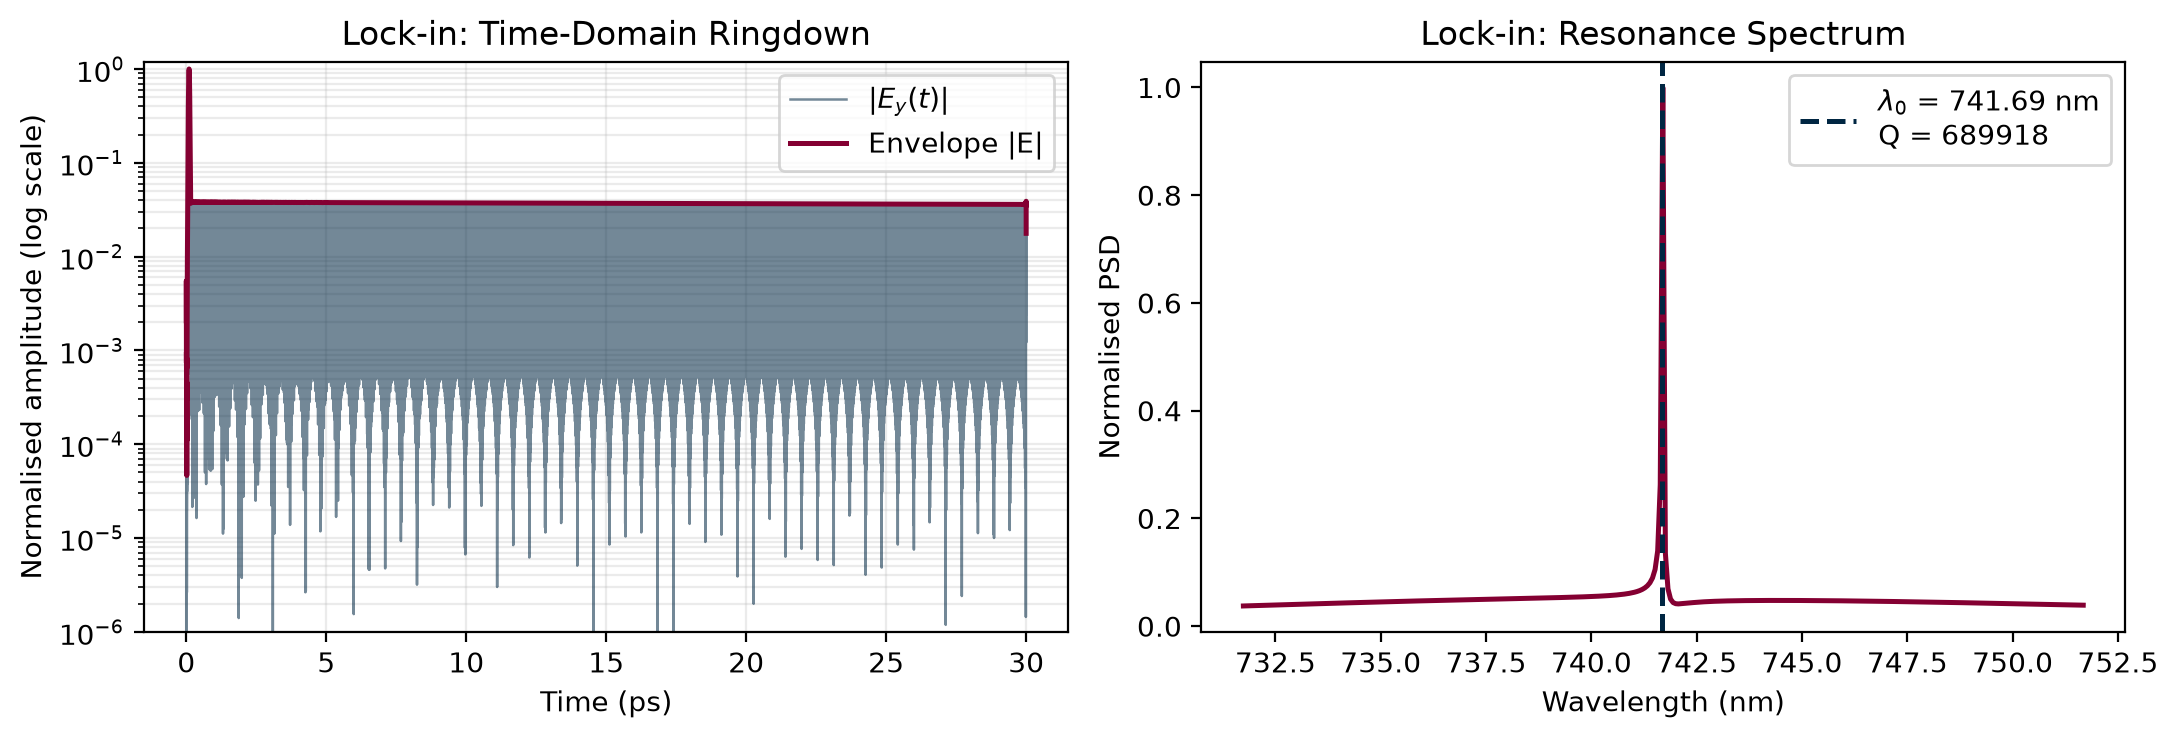
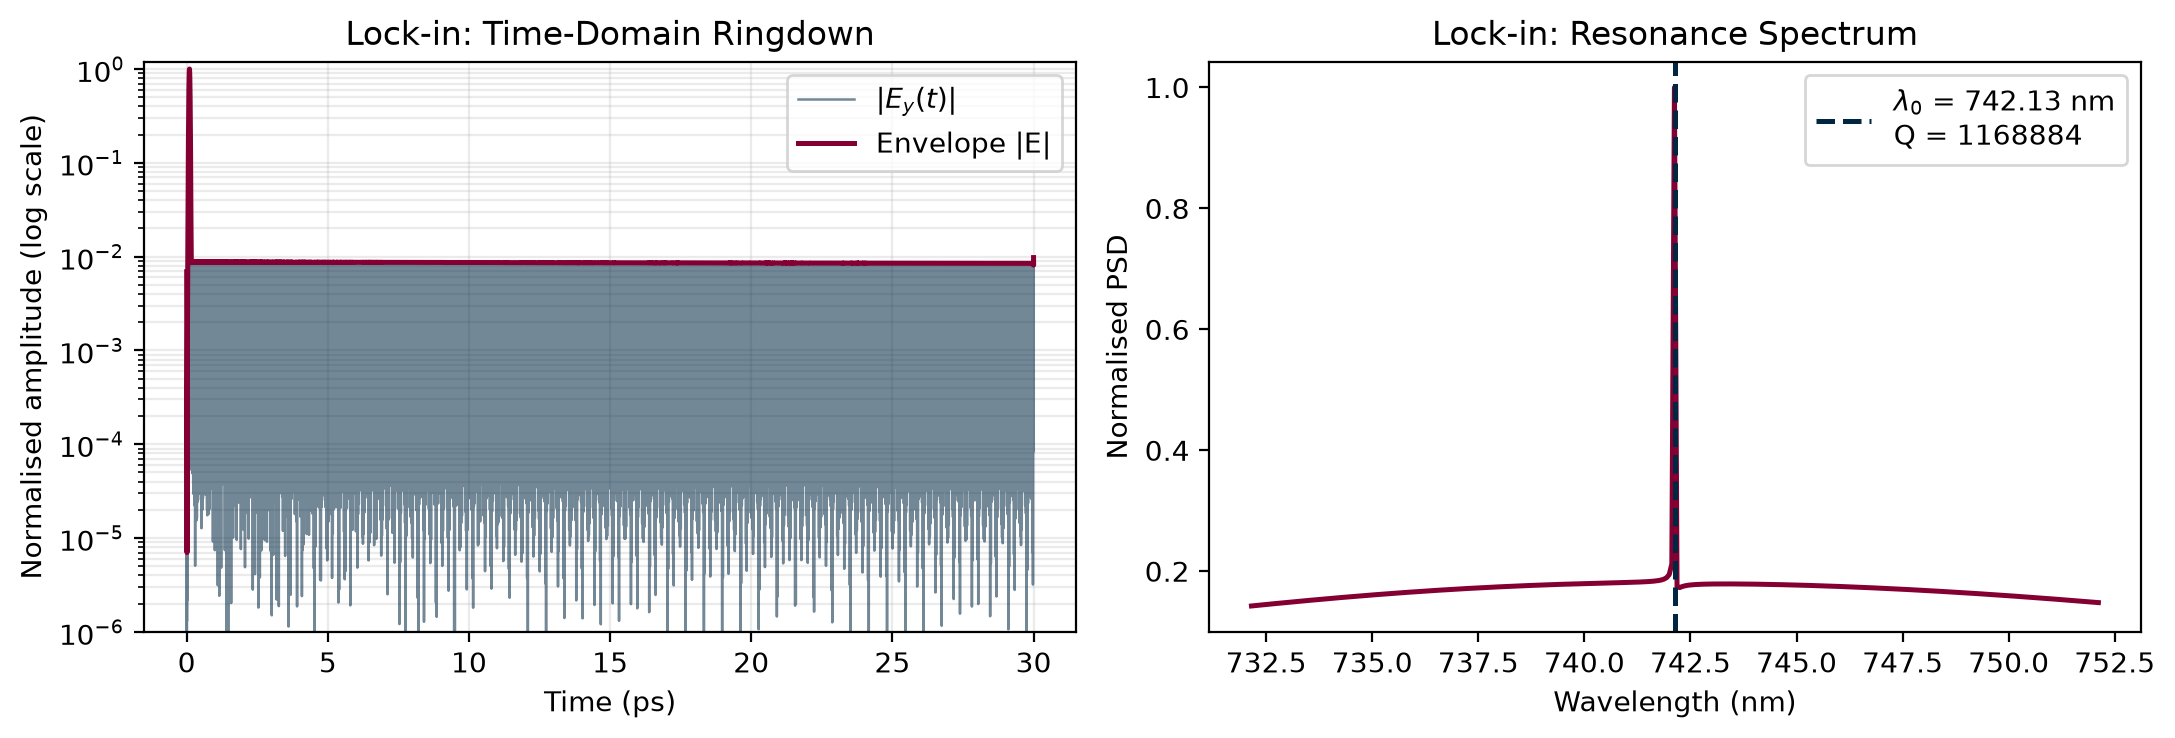
update the mesh override with finer mesh at the cavity center, for the mode volume calculation sampled from simulation itself

diff --git a/siv_cavity/postprocess.py b/siv_cavity/postprocess.py
@@ -258,9 +258,12 @@ def compute_confinement(
         results[f"w_{axis_label}_um"] = w
         results[f"fwhm_{axis_label}_nm"] = 2 * np.sqrt(2 * np.log(2)) * w * 1e3
 
-    dx = abs(np.diff(x[:2])[0])
-    dy = abs(np.diff(y[:2])[0])
-    A_eff = float(np.sum(I) ** 2 / np.sum(I**2) * dx * dy)
+    # Coordinate-aware integration: the monitor grid is non-uniform when a
+    # mesh override refines the cavity core, so integrate on the actual axes.
+    def _trapz2d(F: np.ndarray) -> float:
+        return float(np.trapezoid(np.trapezoid(F, x, axis=1), y, axis=0))
+
+    A_eff = _trapz2d(I) ** 2 / _trapz2d(I**2)
     results["A_eff_um2"] = A_eff
     results["A_eff_lambda2"] = A_eff / wavelength_um**2
     return results
@@ -275,44 +278,41 @@ def compute_mode_volume(
     wavelength_um: float = 0.737,
     thickness_um: float = 0.220,
 ) -> Tuple[float, float]:
-    """Compute the effective mode volume V_eff and its normalisation (lambda/2n)^3.
+    """Compute the effective mode volume V_eff and its normalisation (lambda/n)^3.
 
     V_eff = integral(eps |E|^2 dV) / max(eps |E|^2), with the permittivity
-    estimated analytically: n_diamond^2 inside the slab (|z| < thickness/2)
-    and 1 elsewhere (holes and the triangular sidewalls are not resolved,
-    matching the notebook's approximation).
+    sampled from the simulation itself (``Simulation.epsilon`` interpolated
+    onto the monitor grid) so that holes, the triangular sidewalls and the
+    air cladding are resolved exactly — mirrors the mode-volume recipe of
+    ``examples/NanobeamCavity.ipynb``.
 
-    Returns (V_eff [um^3], V_eff / (lambda/2n)^3).
+    ``thickness_um`` is kept for signature compatibility and no longer used.
+
+    Returns (V_eff [um^3], V_eff / (lambda/n)^3).
     """
     mon = data[monitor_name]
-    Ex = mon.Ex.isel(f=0).values.squeeze()
-    Ey = mon.Ey.isel(f=0).values.squeeze()
-    Ez = (
-        mon.Ez.isel(f=0).values.squeeze()
-        if "Ez" in mon.field_components
-        else np.zeros_like(Ex)
+    Ex = mon.Ex.isel(f=0)
+    Ey = mon.Ey.isel(f=0)
+    Ez = mon.Ez.isel(f=0) if "Ez" in mon.field_components else 0.0
+    intensity = np.abs(Ex) ** 2 + np.abs(Ey) ** 2 + np.abs(Ez) ** 2
+
+    # Exact permittivity of the simulated structure on the monitor grid.
+    freq = float(mon.Ex.coords["f"].values[0])
+    eps = np.abs(
+        data.simulation.epsilon(
+            box=td.Box(center=(0, 0, 0), size=(td.inf, td.inf, td.inf)), freq=freq
+        )
+    )
+    eps = eps.interp(
+        x=intensity.coords["x"], y=intensity.coords["y"], z=intensity.coords["z"]
     )
 
-    x = _coords_to_um(mon.Ex.coords["x"].values)
-    y = _coords_to_um(mon.Ex.coords["y"].values)
-    z = _coords_to_um(mon.Ex.coords["z"].values)
+    # Trapezoidal integration handles the non-uniform auto grid correctly.
+    eps_I = eps * intensity
+    V_eff = float(eps_I.integrate(coord=("x", "y", "z")) / eps_I.max())
 
-    # Ensure field shape (nz, ny, nx)
-    I = np.abs(Ex) ** 2 + np.abs(Ey) ** 2 + np.abs(Ez) ** 2
-    if I.shape == (len(x), len(y), len(z)):
-        I = np.transpose(I, (2, 1, 0))
-
-    # Analytic permittivity map
     n = float(n_diamond(wavelength_um))
-    Z3d = z[:, None, None] * np.ones_like(I)
-    eps = np.where(np.abs(Z3d) < thickness_um / 2, n**2, 1.0)
-
-    eps_I = eps * I
-    dV = abs(np.diff(x[:2])[0]) * abs(np.diff(y[:2])[0]) * abs(np.diff(z[:2])[0])
-    V_eff = float(np.sum(eps_I) * dV / np.max(eps_I))
-
-    lambda_n = wavelength_um / n
-    V_norm = V_eff / (lambda_n / 2) ** 3
+    V_norm = V_eff / (wavelength_um / n) ** 3
     return V_eff, V_norm
 
 
@@ -395,7 +395,7 @@ def run_full_analysis(
     Q_val = res_lockin["Q"]
     F_P = compute_purcell(Q_val, V_eff, wavelength_um)
     print(f"  Effective mode volume  V_eff  = {V_eff:.4f} um^3")
-    print(f"                                = {V_norm:.3f} x (lambda/2n)^3")
+    print(f"                                = {V_norm:.3f} x (lambda/n)^3")
     print(f"  Quality factor         Q      = {Q_val:.0f}")
     print(f"  Purcell factor         F_P    = {F_P:.1f}")
 

diff --git a/siv_cavity/simulation.py b/siv_cavity/simulation.py
@@ -34,6 +34,8 @@ class SiVNanobeamSimulationSetup:
         pad_z_um: float = 1.2,
         hole_layer: Tuple[int, int] = (0, 0),
         chunk_max: int = 100,
+        core_mesh_dl_um: float | None = None,
+        core_mesh_size_x_um: float = 4.0,
         *,
         diamond_medium: td.Medium,
         clad_medium: td.Medium,
@@ -59,6 +61,8 @@ class SiVNanobeamSimulationSetup:
         self.pad_z_um = float(pad_z_um)
         self.hole_layer = tuple(hole_layer)
         self.chunk_max = int(chunk_max)
+        self.core_mesh_dl_um = None if core_mesh_dl_um is None else float(core_mesh_dl_um)
+        self.core_mesh_size_x_um = float(core_mesh_size_x_um)
         self.diamond_medium = diamond_medium
         self.clad_medium = clad_medium
         self.f0_center = c0_m_per_s / (self.wavelength_um * 1e-6)
@@ -381,9 +385,32 @@ class SiVNanobeamSimulationSetup:
         )
         return [cartesian, kspace, angles]
 
-    def _grid_spec(self, min_steps_per_wvl: int) -> td.GridSpec:
+    def _grid_spec(self, min_steps_per_wvl: int, geom: Dict | None = None) -> td.GridSpec:
+        """Auto grid, optionally refined to ``core_mesh_dl_um`` in the cavity core.
+
+        Mirrors ``examples/NanobeamCavity.ipynb``: a MeshOverrideStructure box
+        (core_mesh_size_x_um x beam width x beam thickness) centred on the
+        cavity concentrates resolution where the mode lives. Note the smallest
+        cell also sets the FDTD time step, so a finer core grid increases the
+        step count proportionally."""
+        override_structures = []
+        if self.core_mesh_dl_um is not None and geom is not None:
+            dl = self.core_mesh_dl_um
+            core_box = td.Box(
+                center=(geom["cx"], geom["cy"], 0.0),
+                size=(
+                    min(self.core_mesh_size_x_um, geom["size_x"]),
+                    self.wg_width_um,
+                    self.thickness_um,
+                ),
+            )
+            override_structures = [
+                td.MeshOverrideStructure(geometry=core_box, dl=(dl, dl, dl))
+            ]
         return td.GridSpec.auto(
-            min_steps_per_wvl=min_steps_per_wvl, wavelength=self.wavelength_um
+            min_steps_per_wvl=min_steps_per_wvl,
+            wavelength=self.wavelength_um,
+            override_structures=override_structures,
         )
 
     def default_symmetry(self) -> Tuple[int, int, int]:
@@ -413,7 +440,7 @@ class SiVNanobeamSimulationSetup:
         return td.Simulation(
             size=(geom["size_x"], geom["size_y"], geom["size_z"]),
             center=(geom["cx"], geom["cy"], geom["cz"]),
-            grid_spec=self._grid_spec(min_steps_per_wvl),
+            grid_spec=self._grid_spec(min_steps_per_wvl, geom),
             structures=structures,
             sources=[source],
             monitors=monitors,

diff --git a/siv_cavity/analysis.py b/siv_cavity/analysis.py
@@ -59,6 +59,18 @@ def extract_resonance(
     t = getattr(mon, field).coords["t"].values
     dt = float(t[1] - t[0])
 
+    # Trim the source transient before fitting: keep t >= 2 x source decay
+    # (offset + pulse time, cf. examples/NanobeamCavity.ipynb) so the
+    # ResonanceFinder only sees the clean exponential ringdown.
+    if data.simulation.sources:
+        src_time = data.simulation.sources[0].source_time
+        t_off = src_time.offset / (2 * np.pi * src_time.fwidth)
+        t_start = 2.0 * (t_off + 0.44 / src_time.fwidth)
+        keep = t >= t_start
+        if 16 < np.count_nonzero(keep) < len(t):
+            signal = signal[keep]
+            t = t[keep]
+
     f0 = C0_M_PER_S / (wavelength_centre_um * 1e-6)
     fwidth = f0 * bandwidth_rel
     freq_window = (f0 - fwidth, f0 + fwidth)
@@ -104,5 +116,5 @@ def print_resonance(res: Dict, label: str = "Q-factor extraction") -> None:
     print(f"\n-- {label} --")
     print(f"  Resonance wavelength : {res['wavelength_nm']:.3f} nm")
     print(f"  Quality factor  Q    : {res['Q']:.3e}")
-    print(f"  Energy decay time    : {res['decay_time_ps']:.2f} ps")
+    print(f"  Amplitude decay time : {res['decay_time_ps']:.2f} ps (energy: {res['decay_time_ps'] / 2:.2f} ps)")
     print(f"  Fit error            : {res['error']:.2e}")

diff --git a/run_lockin.py b/run_lockin.py
@@ -42,9 +42,13 @@ SCOUT_BANDWIDTH_REL = 0.12
 LOCKIN_RUN_TIME_PS = 30.0     # long ringdown for accurate high-Q fit
 LOCKIN_STEPS_PER_WVL = 20     # finer grid -> higher numerical-Q ceiling
 LOCKIN_BANDWIDTH_REL = 0.02   # narrowband at resonance
+LOCKIN_CORE_MESH_DL_UM = 0.010  # 10 nm mesh override over the cavity core
 
 
-def build_setup(cavity, cavity_gds, holes_gds, bbox, specs, wavelength_um, bandwidth_rel):
+def build_setup(
+    cavity, cavity_gds, holes_gds, bbox, specs, wavelength_um, bandwidth_rel,
+    core_mesh_dl_um=None,
+):
     return SiVNanobeamSimulationSetup(
         cavity_gds=cavity_gds,
         holes_gds=holes_gds,
@@ -59,6 +63,7 @@ def build_setup(cavity, cavity_gds, holes_gds, bbox, specs, wavelength_um, bandw
         ellipse_tolerance_um=specs["ELLIPSE_TOLERANCE_UM"],
         source_bandwidth_rel=bandwidth_rel,
         end_wg_length_um=cavity.end_wg_length,
+        core_mesh_dl_um=core_mesh_dl_um,
         diamond_medium=diamond_medium,
         clad_medium=air_medium,
     )
@@ -112,7 +117,8 @@ def main():
 
     # 3. Stage 2: narrowband lock-in at the detected resonance, full monitor suite
     lockin_setup = build_setup(
-        cavity, cavity_gds, holes_gds, bbox, specs, wavelength_lockin, LOCKIN_BANDWIDTH_REL
+        cavity, cavity_gds, holes_gds, bbox, specs, wavelength_lockin, LOCKIN_BANDWIDTH_REL,
+        core_mesh_dl_um=LOCKIN_CORE_MESH_DL_UM,
     )
     sim_lockin = lockin_setup.create_simulation(
         run_time_ps=LOCKIN_RUN_TIME_PS,
@@ -150,7 +156,7 @@ def main():
     print(f"  Scout   : lambda = {res_scout['wavelength_nm']:.3f} nm, Q = {res_scout['Q']:.3e}")
     print(f"  Lock-in : lambda = {res_lockin['wavelength_nm']:.3f} nm, Q = {res_lockin['Q']:.3e}")
     print(f"  A_eff   = {results['confinement']['A_eff_um2']:.4f} um^2")
-    print(f"  V_eff   = {results['V_eff_um3']:.4f} um^3 = {results['V_norm']:.3f} x (lambda/2n)^3")
+    print(f"  V_eff   = {results['V_eff_um3']:.4f} um^3 = {results['V_norm']:.3f} x (lambda/n)^3")
     print(f"  F_P     = {results['F_P']:.1f}")
     print("=" * 62)
 

diff --git a/analyze_lockin.py b/analyze_lockin.py
@@ -105,7 +105,7 @@ def main():
     print(f"  Scout   : lambda = {res_scout['wavelength_nm']:.3f} nm, Q = {res_scout['Q']:.3e}")
     print(f"  Lock-in : lambda = {res_lockin['wavelength_nm']:.3f} nm, Q = {res_lockin['Q']:.3e}")
     print(f"  A_eff   = {results['confinement']['A_eff_um2']:.4f} um^2")
-    print(f"  V_eff   = {results['V_eff_um3']:.4f} um^3 = {results['V_norm']:.3f} x (lambda/2n)^3")
+    print(f"  V_eff   = {results['V_eff_um3']:.4f} um^3 = {results['V_norm']:.3f} x (lambda/n)^3")
     print(f"  F_P     = {results['F_P']:.1f}")
     print("=" * 62)
 